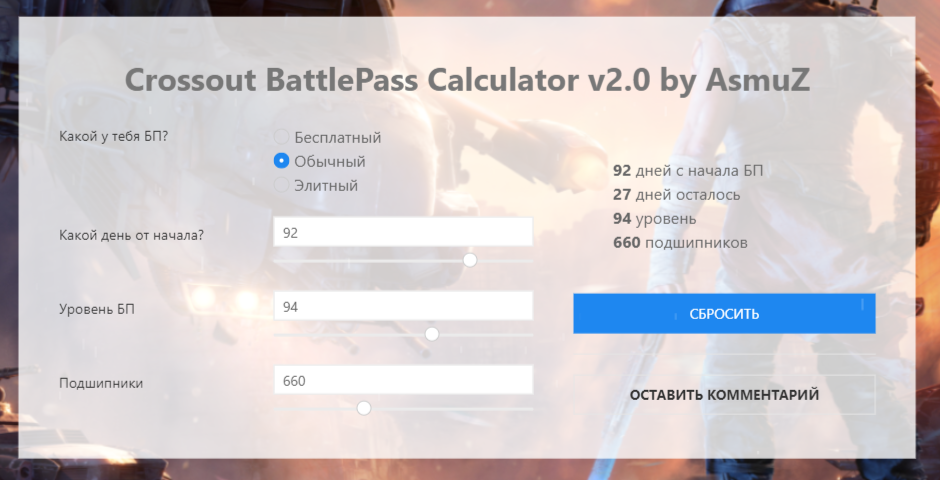
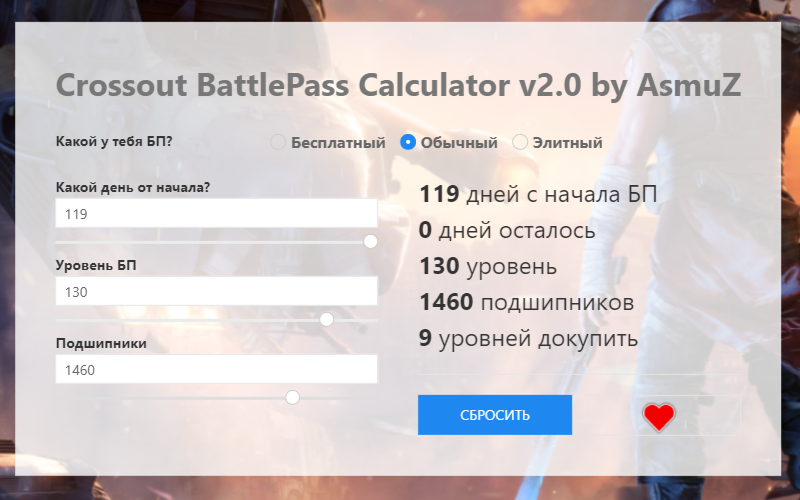
interface upgrade

diff --git a/v2/index.html b/v2/index.html
@@ -52,26 +52,27 @@
 							v2.0 by AsmuZ
 						</h1>
 						<div class="uk-accordion-content">
+							<form id="paid_bp" class="uk-form-horizontal uk-margin1">
+								<div class="uk-margin">
+									<div class="uk-form-label uk-text-bold">Какой у тебя БП?</div>
+									<div class="uk-form-controls uk-form-controls-text uk-text-bold">
+										<label style="padding-right: 10px"><input onchange="onchangePaid()"
+												class=" uk-radio" type="radio" name="buy" value=0 checked>
+											Бесплатный</label>
+										<label style="padding-right: 10px"><input onchange="onchangePaid()"
+												class=" uk-radio" type="radio" name="buy" value=1>
+											Обычный</label>
+										<label style="padding-right: 10px"><input onclick="onchangePaid()"
+												class=" uk-radio" type="radio" name="buy" value=15>
+											Элитный</label>
+									</div>
+								</div>
+							</form>
 							<div class="uk-margin" uk-grid>
-								<div class="uk-width-3-5@m">
-									<form id="paid_bp" class="uk-form-horizontal uk-margin">
-										<div class="uk-margin">
-											<div class="uk-form-label">Какой у тебя БП?</div>
-											<div class="uk-form-controls uk-form-controls-text">
-												<label><input onchange="onchangePaid()" class=" uk-radio" type="radio"
-														name="buy" value=0 checked>
-													Бесплатный</label><br />
-												<label><input onchange="onchangePaid()" class=" uk-radio" type="radio"
-														name="buy" value=1>
-													Обычный</label><br />
-												<label><input onclick="onchangePaid()" class=" uk-radio" type="radio"
-														name="buy" value=15>
-													Элитный</label>
-											</div>
-										</div>
-									</form>
-									<div class="uk-form-horizontal uk-margin">
-										<label class="uk-form-label" for="form-horizontal-text">Какой день от
+								<div class="uk-width-1-2@m">
+									<div class="uk-form-horizontal1 uk-margin1">
+										<label class="uk-form-label uk-text-bold" for="form-horizontal-text">Какой день
+											от
 											начала?</label>
 										<div class="uk-form-controls">
 											<input value=0 type="number" id="inputLeftDays"
@@ -83,8 +84,9 @@
 										</div>
 
 									</div>
-									<div class="uk-form-horizontal uk-margin uk-hidden">
-										<label class="uk-form-label" for="form-horizontal-text">Сколько дней
+									<div class="uk-form-horizontal1 uk-margin1 uk-hidden">
+										<label class="uk-form-label uk-text-bold" for="form-horizontal-text">Сколько
+											дней
 											пропущено?</label>
 										<div class="uk-form-controls">
 											<input value=0 type="number" id="inputMissDays"
@@ -96,8 +98,9 @@
 												oninput="document.getElementById('inputMissDays').value = this.value; onchangeMissDay()">
 										</div>
 									</div>
-									<div class="uk-form-horizontal uk-margin">
-										<label class="uk-form-label" for="form-horizontal-text">Уровень БП</label>
+									<div class="uk-form-horizontal1 uk-margin1">
+										<label class="uk-form-label uk-text-bold" for="form-horizontal-text">Уровень
+											БП</label>
 										<div class="uk-form-controls">
 											<input value=0 type="number" id="inputLevel"
 												class="uk-form-small uk-input uk-form-width-1-1"
@@ -108,8 +111,9 @@
 												oninput="document.getElementById('inputLevel').value = this.value; onchangeLevel()">
 										</div>
 									</div>
-									<div class="uk-form-horizontal uk-margin">
-										<label class="uk-form-label" for="form-horizontal-text">Подшипники</label>
+									<div class="uk-form-horizontal1 uk-margin1">
+										<label class="uk-form-label uk-text-bold"
+											for="form-horizontal-text">Подшипники</label>
 										<div class="uk-form-controls">
 											<input value=0 type="number" id="inputResources"
 												class="uk-form-small uk-input uk-form-width-1-1"
@@ -122,8 +126,8 @@
 									</div>
 
 								</div>
-								<div class="uk-width-2-5@m">
-									<div class="uk-padding uk-text-big">
+								<div class="uk-width-1-2@m">
+									<div class="uk-padding1 uk-text-lead">
 										<div id="result-todayIs"></div>
 										<div id="result-daysLeft"></div>
 										<div id="result-daysMiss" class="uk-hidden"></div>
@@ -132,11 +136,20 @@
 										<div id="result-resources"></div>
 										<div id="result-needBuy"></div>
 									</div>
-									<button class="uk-button uk-button-primary uk-width-1-1"
-										onclick="start()">Сбросить</button>
 									<hr />
-									<a class="uk-button uk-button-default uk-width-1-1" href="#comments"
-										uk-scroll><b>Оставить комментарий</b></a>
+									<div class="uk-child-width-1-2@m uk-grid-small" uk-grid>
+										<div>
+											<button class="uk-button uk-button-primary uk-width-1-1"
+												onclick="start()">Сбросить</button>
+										</div>
+										<div>
+											<a class="uk-button uk-button-default uk-width-1-1" href="#comments"
+												uk-scroll><img src="img/heart.png"
+													style="width: 40px; margin-right: 10px" /></a>
+										</div>
+									</div>
+
+
 								</div>
 							</div>
 						</div>

diff --git a/v2/js/main.js b/v2/js/main.js
@@ -89,7 +89,7 @@ function onchangeLevel() {
   } else if (needBuy > 0) {
     document.getElementById(
       "result-needBuy"
-    ).innerHTML = `<b>${needBuy}</b> уровней нужно докупить`;
+    ).innerHTML = `<b>${needBuy}</b> уровней докупить`;
   }
 }
 
